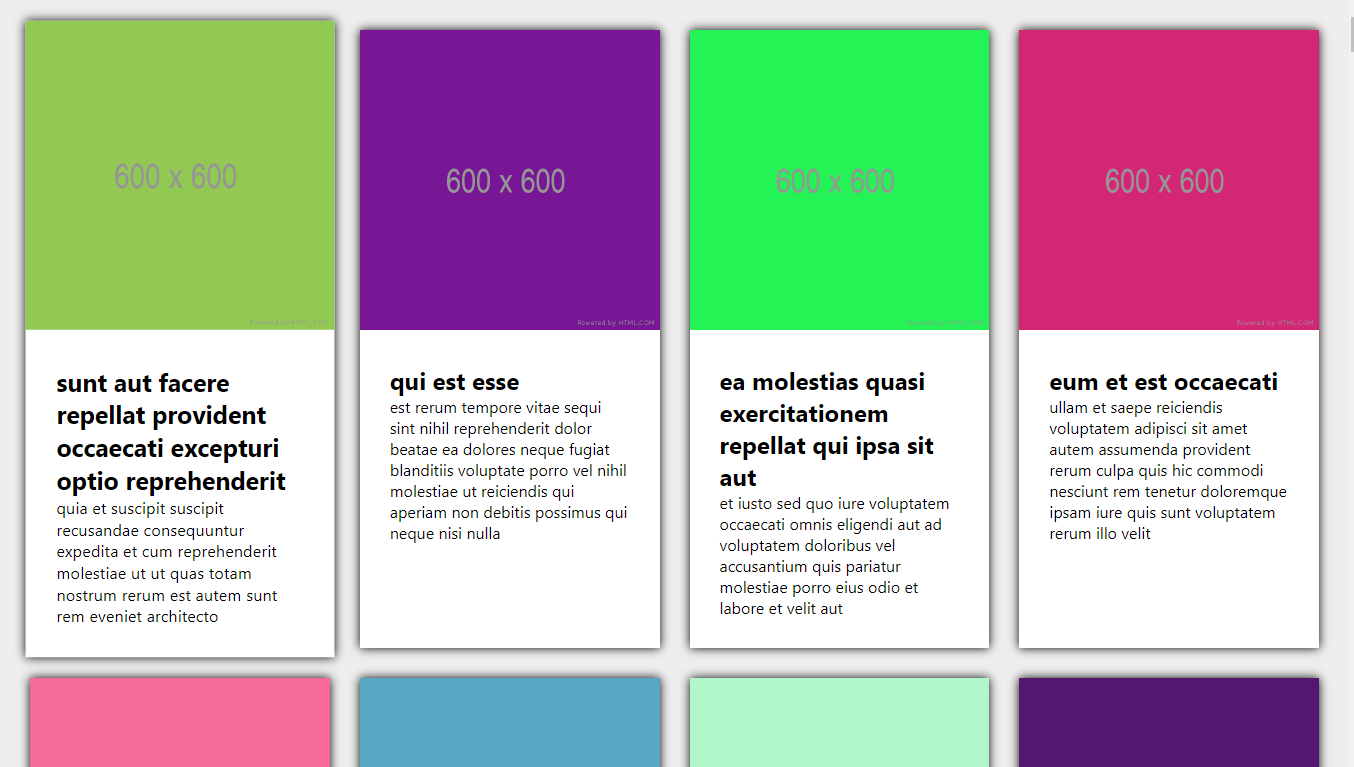
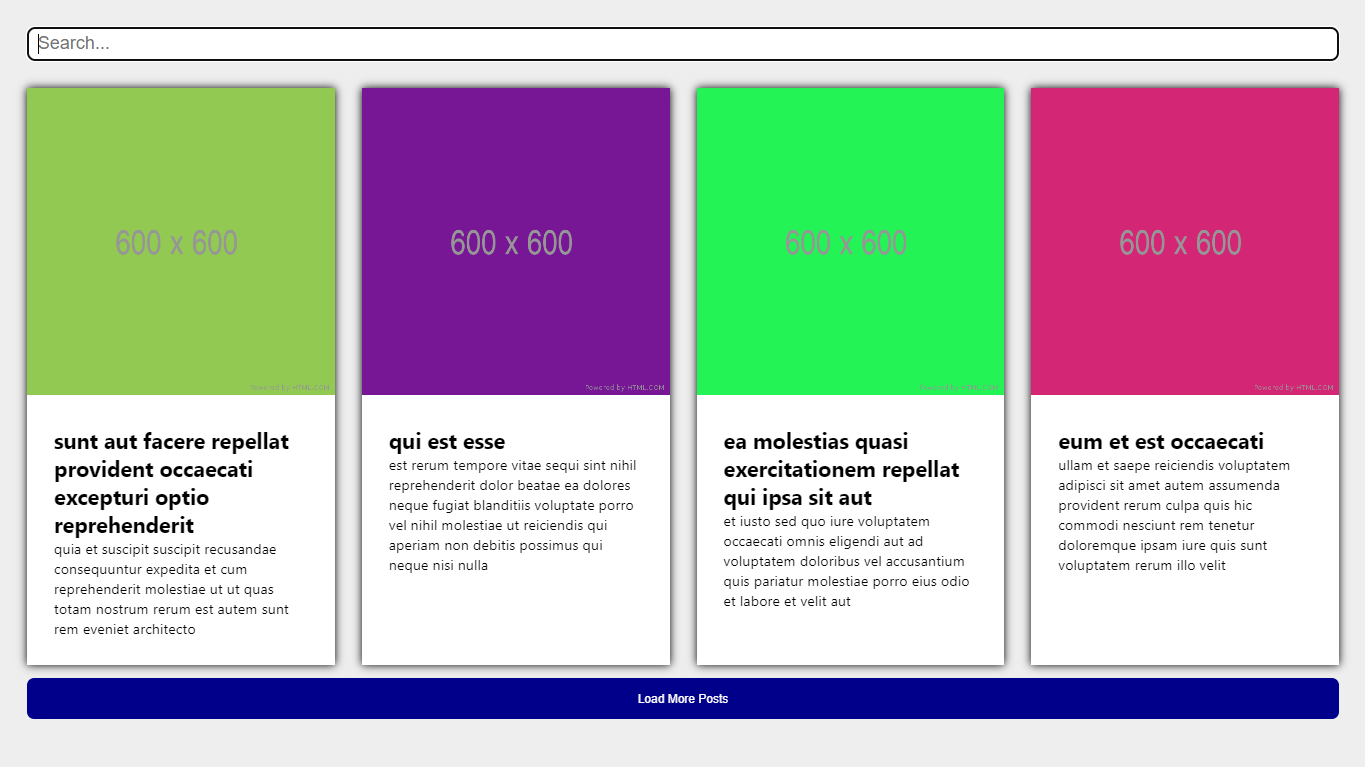
inputs de texto

diff --git a/src/templates/Home/index.jsx b/src/templates/Home/index.jsx
@@ -5,13 +5,15 @@ import './styles.css';
 import { Posts } from '../../components/Posts';
 import { loadPosts } from '../../utils/load-posts';
 import { Button } from '../../components/Button';
+import { TextInput } from '../../components/TextInput';
 
 export class Home extends Component {
   state = {
     posts : [],
     allPosts: [],
     page: 0,
-    postsPerPage: 4 
+    postsPerPage: 4,
+    searchValue: ''
   };
 
   async componentDidMount(){
@@ -47,20 +49,55 @@ export class Home extends Component {
 
   }
 
+  handleChange = (e) => {
+    const {value} = e.target;
+    this.setState({searchValue: value});
+  }
+
   render() {
-    const {posts, page, postsPerPage, allPosts} = this.state;
+    const {posts, page, postsPerPage, allPosts, searchValue} = this.state;
     const noMorePosts = page+postsPerPage >= allPosts.length;
 
-    return (
-      <section className='container'>
-        <Posts posts={posts}/>
+    const filteredPosts = !!searchValue ? 
+    posts.filter(post => {
+      return post.title.toLowerCase().includes(searchValue.toLowerCase());
+    }) 
+    : 
+    posts;
 
-        <div class="button-container">
-          <Button 
-            text='Load More Posts' 
-            onClick={this.loadMorePosts}
-            disabled={noMorePosts}
-          />  
+    return (
+
+      <section className='container'>
+        <div className='search-container'>
+          {
+            !!searchValue && (
+                <h1>Search Value: {searchValue}</h1>
+            )
+          }
+
+          <TextInput searchValue={searchValue} handleChange={this.handleChange}/>
+        </div>
+
+        {filteredPosts.length > 0 && (
+          <Posts posts={filteredPosts}/>
+        )}
+
+        {filteredPosts.length === 0 && (
+          <p>Not found :/</p>
+        )}
+
+        <div className="button-container">
+
+          {
+            !searchValue && (
+              <Button 
+                text='Load More Posts' 
+                onClick={this.loadMorePosts}
+                disabled={noMorePosts}
+              />  
+            )
+          }
+          
         </div> 
         
       </section>

diff --git a/src/components/TextInput/index.jsx b/src/components/TextInput/index.jsx
@@ -1,0 +1,13 @@
+import './styles.css';
+
+export const TextInput = ({searchValue, handleChange}) => {
+    return (
+        <input
+            className='text-input'
+            onChange={handleChange}
+            value={searchValue}
+            type="search"
+            placeholder='Search...'
+        />
+    );
+}

diff --git a/src/templates/Home/styles.css b/src/templates/Home/styles.css
@@ -9,3 +9,11 @@
   display: flex;
   align-items: flex-end;
 }
+
+.search-container {
+  margin-bottom: 30px;
+}
+
+.search-container h1 {
+  margin-bottom: 30px;
+}

diff --git a/src/components/TextInput/styles.css b/src/components/TextInput/styles.css
@@ -1,0 +1,6 @@
+.text-input {
+    width: 100%;
+    font-size: 20px;
+    padding: 5px 10px;
+    border-radius: 8px;
+}

diff --git a/README.md b/README.md
@@ -3,3 +3,4 @@
 Este repositório é destinado para fazer o versionamento dos projetos que realizo com a finalidade de estudar react.
 
 ![Site](https://raw.githubusercontent.com/Berchez/EstudandoReact/main/src/images/sitePreview.png)
+![Site2](https://raw.githubusercontent.com/Berchez/EstudandoReact/main/src/images/sitePreview2.png)
